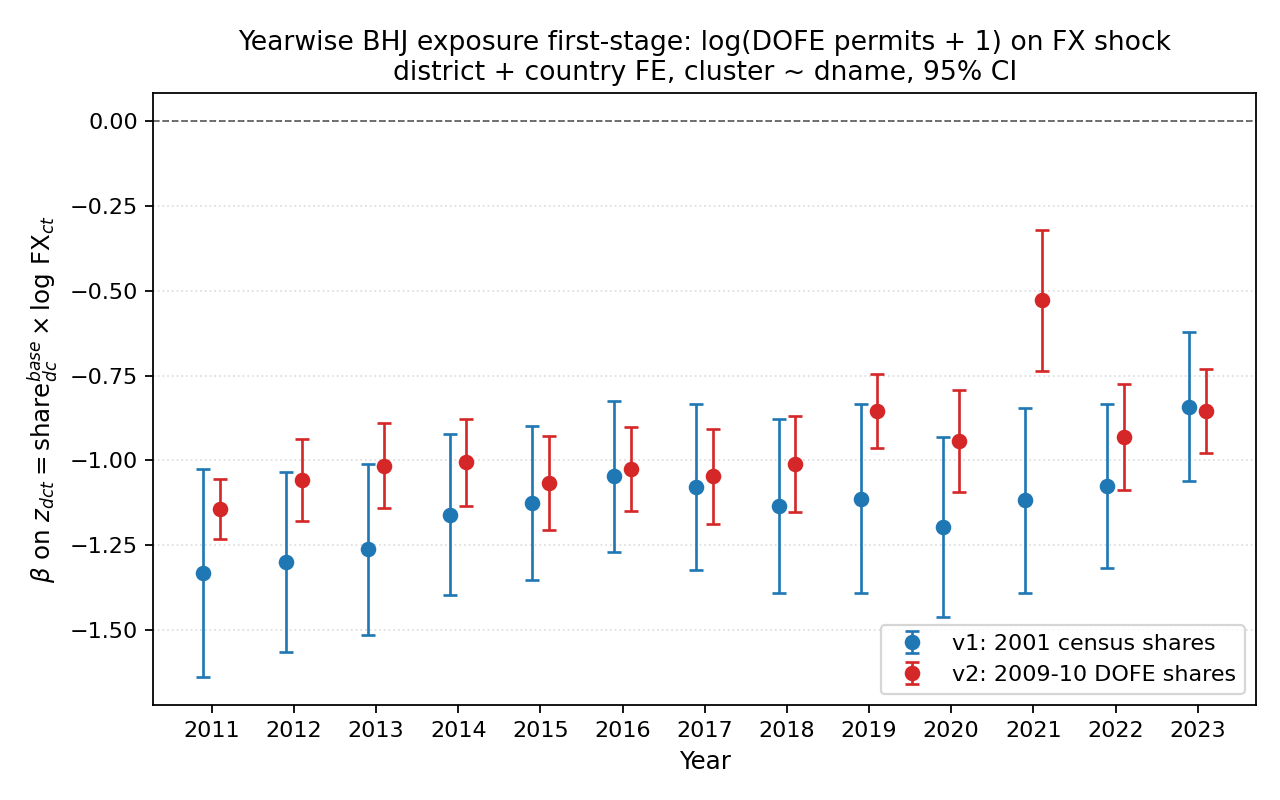
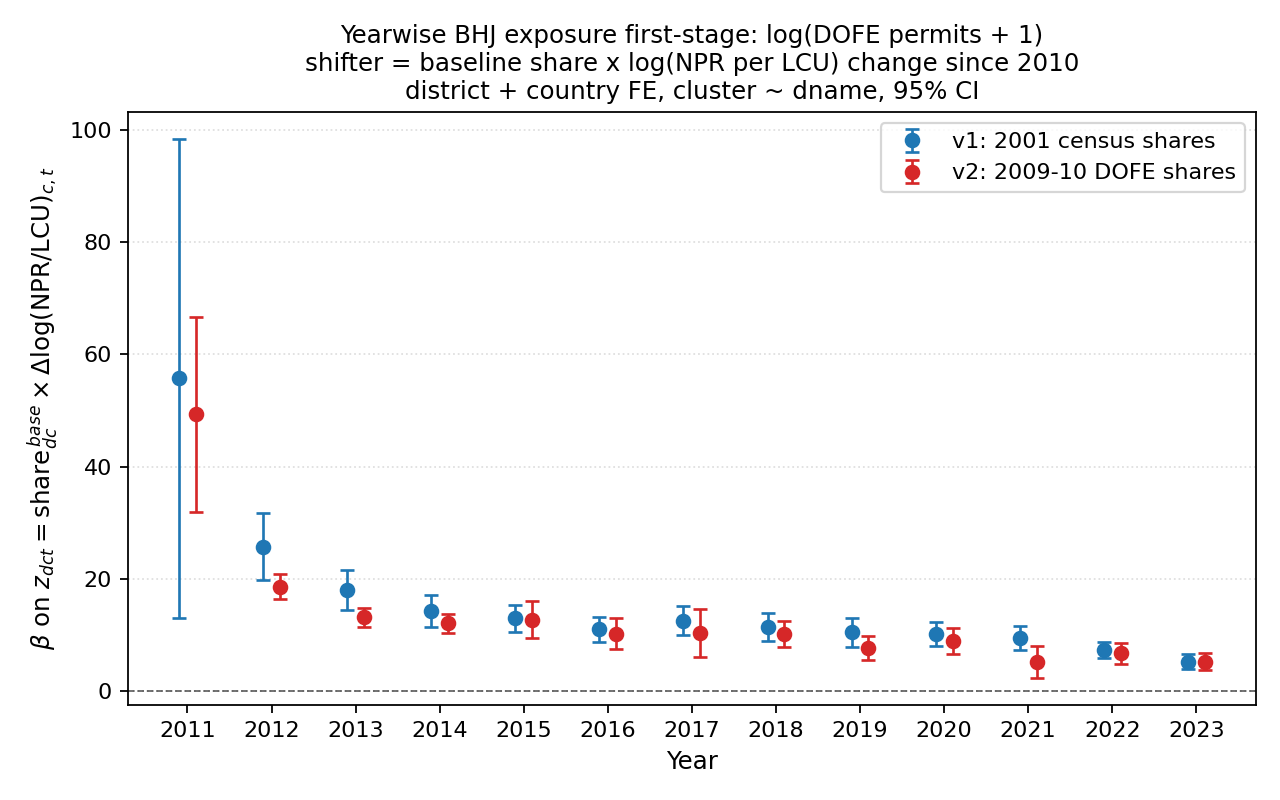
Reparameterize d x c shifter as NPR-per-LCU change since 2010

diff --git a/district-analysis/script/_dxc_first_stage.py b/district-analysis/script/_dxc_first_stage.py
@@ -5,8 +5,18 @@ Two baseline-share versions of the SSIV:
   v1 (2001):    share_dc from 2001 census migration  (dist_mig_pop_2001.csv)
   v2 (2009-10): share_dc from average DOFE permits in 2009-2010
 
-Exposure shifter:
-  z_dct = share_dc(base) * log_fx_ct       (Khanna direction: LCU per NPR)
+Exposure shifter (built in the migrant's-eye direction):
+
+  npr_per_lcu_{c,t}   = NPR you receive for 1 unit of country-c currency in year t
+  rer_{c,t}           = log( npr_per_lcu_{c,t} / npr_per_lcu_{c,2010} )
+                       = log NPR-per-LCU change since 2010, country c
+                       ( > 0  =  NPR has depreciated since 2010, more NPR per LCU
+                         < 0  =  NPR has appreciated, fewer NPR per LCU         )
+
+  z_dct = share_dc(base) * rer_ct
+
+  RER rises when migrants would receive more NPR for the same LCU earnings.
+  Expected sign of beta on z_dct is POSITIVE.
 
 Outcome:
   y_dct = log(dofe_permits_dct + 1)
@@ -40,14 +50,25 @@ forex = pd.read_csv("district-analysis/data/clean/forex_2000_2023.csv").dropna(s
 dofe_raw = pd.read_csv("district-analysis/data/clean/foreign_migration_district_country_annual.csv").dropna(subset=["country"])
 m01 = pd.read_csv("district-analysis/data/clean/dist_mig_pop_2001.csv")
 
-# FX in Khanna direction (LCU per NPR)
+# Build FX in migrant's-eye direction: NPR per LCU.
+# Raw 'forex' table is LCU per USD.  So:
+#   npr_per_usd_t  = forex_Nepal_t
+#   lcu_per_usd_t  = forex_c_t
+#   npr_per_lcu_ct = npr_per_usd_t / lcu_per_usd_t
 nepal_fx = forex[forex.country == "Nepal"][["year","forex"]].rename(columns={"forex":"npr_per_usd"})
 fx = (forex.rename(columns={"forex":"lcu_per_usd"})[["country","year","lcu_per_usd"]]
         .merge(nepal_fx, on="year")
         .query("country not in ['Nepal','India']")
-        .assign(fx_lcu_per_npr=lambda d: d.lcu_per_usd / d.npr_per_usd))
-fx["log_fx"] = np.log(fx.fx_lcu_per_npr)
-fx = fx[["country","year","log_fx"]].dropna()
+        .assign(npr_per_lcu=lambda d: d.npr_per_usd / d.lcu_per_usd))
+fx["log_npr_per_lcu"] = np.log(fx.npr_per_lcu)
+fx = fx[["country","year","log_npr_per_lcu"]].dropna()
+
+# Anchor each country's series to its 2010 value to get a clean depreciation index.
+base2010 = (fx[fx.year == 2010].set_index("country")
+              .log_npr_per_lcu.rename("base_2010"))
+fx = fx.join(base2010, on="country").dropna(subset=["base_2010"])
+fx["rer"] = fx["log_npr_per_lcu"] - fx["base_2010"]   # > 0 = NPR depreciated since 2010
+fx = fx[["country","year","rer"]]
 
 # DOFE annual permits at district x country x year
 dofe = (dofe_raw.assign(dname=lambda d: d.district_rename.map(to_dname))
@@ -107,10 +128,12 @@ panel = (grid.merge(dofe, on=["dname","country","year"], how="left")
               .fillna({"share_v1":0., "share_v2":0.}))
 
 panel["log_perm"] = np.log(panel.permits + 1)
-panel["z_v1"] = panel.share_v1 * panel.log_fx
-panel["z_v2"] = panel.share_v2 * panel.log_fx
-panel = panel.dropna(subset=["log_fx"])
-print(f"Panel: {len(panel)} rows ({len(districts)} d x {len(common)} c x {len(YRS)} y)\n")
+panel["z_v1"] = panel.share_v1 * panel.rer
+panel["z_v2"] = panel.share_v2 * panel.rer
+panel = panel.dropna(subset=["rer"])
+print(f"Panel: {len(panel)} rows ({len(districts)} d x {len(common)} c x {len(YRS)} y)")
+print(f"rer (log NPR/LCU change since 2010) range: "
+      f"[{panel.rer.min():.3f}, {panel.rer.max():.3f}]  mean={panel.rer.mean():.3f}\n")
 
 # ------------------------------------------------------------------------------
 # 4. Regressions
@@ -175,19 +198,19 @@ pooled_df.to_csv("district-analysis/output/tab/dxc_first_stage_pooled.csv", inde
 print("\n" + "=" * 78)
 print("B/C. CROSS-SECTION (collapse over 2011-2023): TOTAL and AVERAGE permits")
 print("=" * 78)
-mean_logfx = (fx[fx.year.between(2011,2023)].groupby("country").log_fx.mean()
-                .rename("mean_log_fx").reset_index())
+mean_rer = (fx[fx.year.between(2011,2023)].groupby("country").rer.mean()
+                .rename("mean_rer").reset_index())
 cs_base = (panel.groupby(["dname","country"])
                 .agg(perm_total=("permits","sum"), perm_mean=("permits","mean"))
                 .reset_index()
                 .merge(sh01, on=["dname","country"], how="left")
                 .merge(sh11, on=["dname","country"], how="left")
-                .merge(mean_logfx, on="country", how="left")
+                .merge(mean_rer, on="country", how="left")
                 .fillna({"share_v1":0., "share_v2":0.}))
 cs_base["log_total"] = np.log(cs_base.perm_total + 1)
 cs_base["log_mean"]  = np.log(cs_base.perm_mean  + 1)
-cs_base["z_v1"]      = cs_base.share_v1 * cs_base.mean_log_fx
-cs_base["z_v2"]      = cs_base.share_v2 * cs_base.mean_log_fx
+cs_base["z_v1"]      = cs_base.share_v1 * cs_base.mean_rer
+cs_base["z_v2"]      = cs_base.share_v2 * cs_base.mean_rer
 
 cs_rows = []
 for outcome in ["log_total", "log_mean"]:
@@ -242,9 +265,10 @@ for ver in ["v1_2001", "v2_2009_10"]:
 
 ax.axhline(0, color="black", linewidth=0.8, linestyle="--", alpha=0.6)
 ax.set_xlabel("Year", fontsize=11)
-ax.set_ylabel(r"$\beta$ on $z_{dct} = \mathrm{share}_{dc}^{base} \times \log\,\mathrm{FX}_{ct}$", fontsize=11)
-ax.set_title("Yearwise BHJ exposure first-stage: log(DOFE permits + 1) on FX shock\n"
-             "district + country FE, cluster ~ dname, 95% CI", fontsize=12)
+ax.set_ylabel(r"$\beta$ on $z_{dct}=\mathrm{share}_{dc}^{\,base}\times\Delta\log(\mathrm{NPR/LCU})_{c,t}$", fontsize=11)
+ax.set_title("Yearwise BHJ exposure first-stage: log(DOFE permits + 1)\n"
+             "shifter = baseline share x log(NPR per LCU) change since 2010\n"
+             "district + country FE, cluster ~ dname, 95% CI", fontsize=11)
 ax.legend(loc="best", frameon=True, fontsize=10)
 ax.set_xticks(YRS)
 ax.grid(True, axis="y", linestyle=":", alpha=0.4)